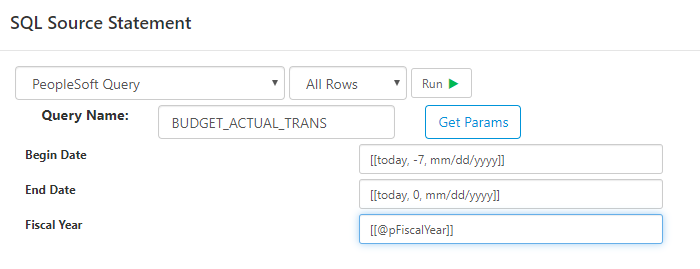
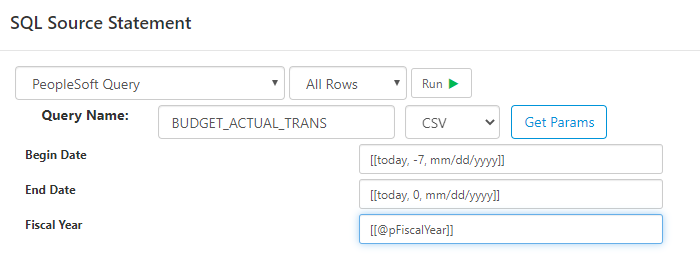
2021.12.001

Changed region(s): [[0.57, 0.3866, 0.87, 0.4758], [0.6, 0.5056, 0.87, 0.5353]]

diff --git a/docs/etl.md b/docs/etl.md
@@ -260,6 +260,10 @@ Connect to PeopleSoft Query by creating a new [Data Source](administration.md#da
 
 ![](/img/etl_psquery.png)
 
-Once you've created the connection, PeopleSoft Query data can be extracted using SQL or Data Flow tasks. Select the PeopleSoft Query data source and enter the Query Name. Then, click either *Get Params* to pull the Query report parameters without running the query, or click the *Run* button to run the query and fetch data.
+Once you've created the connection, PeopleSoft Query data can be extracted using SQL or Data Flow tasks. Select the PeopleSoft Query data source and enter the Query Name.
+
+Click **Get Params** to pull the Query report parameters without running the query
+
+Click **Run** to execute the query and fetch data. You can specify the output type from the PeopleSoft Query as either *CSV* or *XML*.
 
 You can use both [parameters](#parameters) and [functions](#functions) in any of the parameter inputs

diff --git a/docs/new.md b/docs/new.md
@@ -9,6 +9,12 @@ sidebar_label: Release History
 
 This is a full list of new features, bug fixes, and other items for all versions of FlexIt Analytics. The version number is based on the year, month and number of release, such as 2018.09.001 (i.e. [Year].[Month].[Release] being the first release of September 2018.
 
+## 2021.12.001 - Global Filters
+* Natural Language Query improvements
+* SQL Editor improvements
+* Global Filters in metadata models
+* Dashboard performance enhancements
+
 ## 2021.11.001 - Natural Language Query
 * Added *Natural Language Processing* (NLP) to analyses
 * Snowflake Connector added
